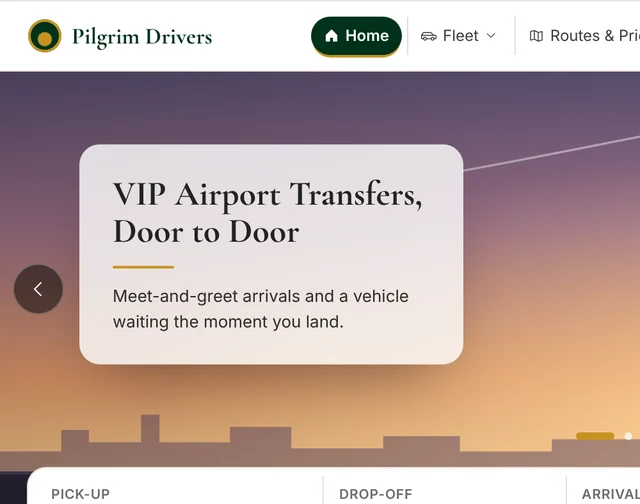
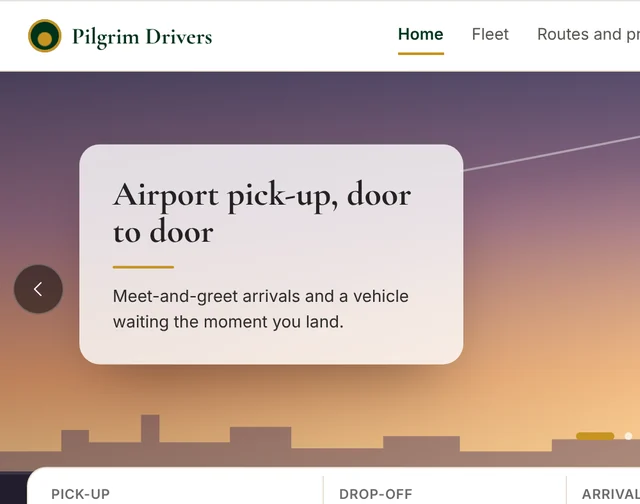
Targeted fixes on the live design: spec-sheet facts, no eyebrow dots, finished Pilgrim and Inventory
- Hero: the floating stats and the locations line become a four-line spec sheet beside the intro
- Removed the dotted section labels; titles stand on their own
- Pilgrim: plain nav with an underlined current page, fixed fares on every vehicle,
  flat buttons, sentence-case headings, varied sample reviews
- Inventory: stock summary and table pagination
- Pilgrim folder peeks recaptured

Claude-Session: https://claude.ai/code/session_01TCoC3CedS4vqswemVj1Lq7

Changed region(s): [[0.1562, 0.3571, 0.6562, 0.506], [0.4688, 0.0298, 1.0, 0.119]]

diff --git a/src/styles/global.css b/src/styles/global.css
@@ -182,14 +182,7 @@ a {
   margin-top: 0;
   margin-bottom: var(--space-3);
 }
-.section-label::before {
-  content: "";
-  width: 6px;
-  height: 6px;
-  border-radius: 50%;
-  background: var(--accent-warm);
-  flex: none;
-}
+
 
 /* Shared layout and controls for the v2 pages. */
 .wrap-wide {
